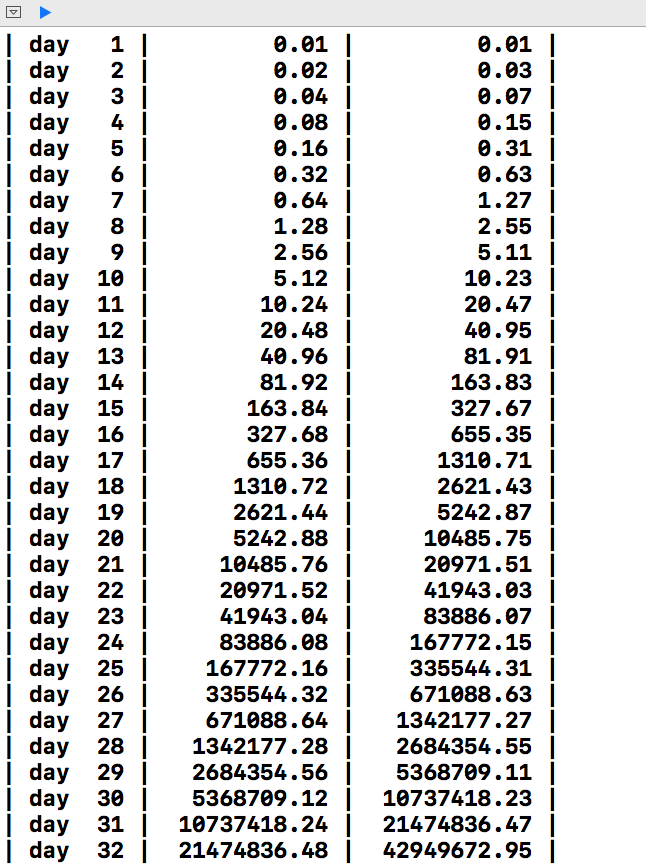
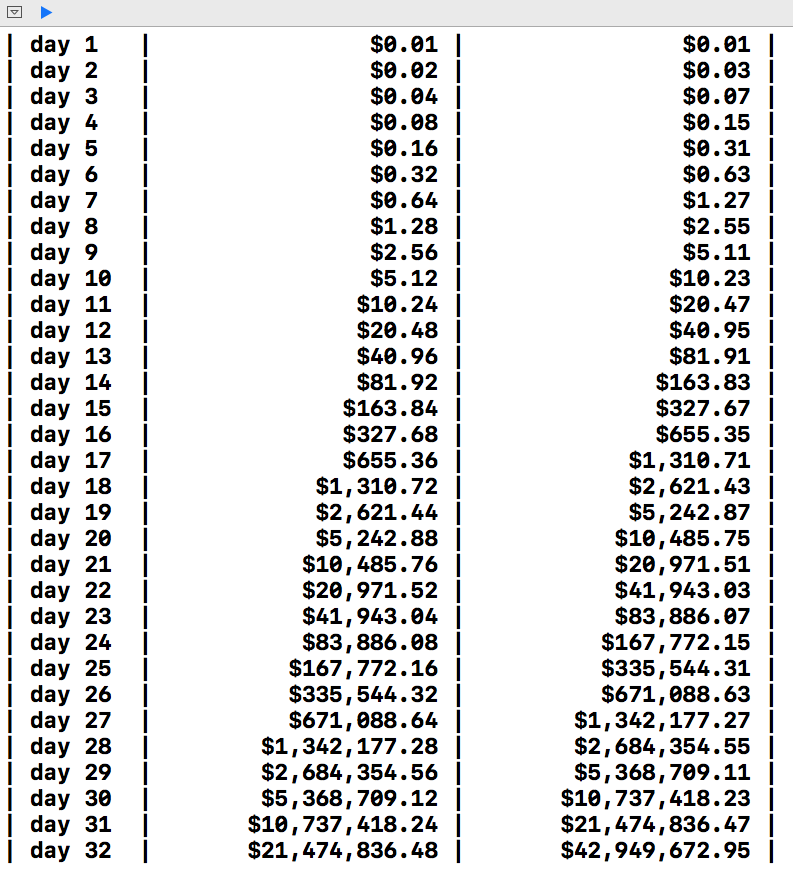
user NumberFormatter for currency

Changed region(s): [[0.2786, 0.0311, 0.9907, 0.9954], [0.0, 0.0, 0.2477, 0.9954]]

diff --git a/CIS55Lab1B.swift b/CIS55Lab1B.swift
@@ -1,13 +1,13 @@
 import UIKit
-let numberOfDays: Int = 32     // number of days
-var dailyPayArray: [Int] = []  // empty array which would keep daily pay
-var totalPayArray: [Int] = []  // empty array which would keep total pay
+let numberOfDays: Int = 32
+var dailyPayArray: [Int] = []; var totalPayArray: [Int] = []
 var total: Int =  0; var nextDaysPay: Int = 1
 for n in (1...numberOfDays){
-    dailyPayArray.append(nextDaysPay)
     total += nextDaysPay
-    totalPayArray.append(total)
-    let outputFormat = NSString(format:"| day %3d | %12.2f | %12.2f |", n, Double(dailyPayArray[n-1])/100.0, Double(totalPayArray[n-1])/100.0)
+    dailyPayArray.append(nextDaysPay); totalPayArray.append(total);
+    let formatter = NumberFormatter()
+    formatter.numberStyle = .currency; formatter.formatWidth = 20
+    let outputFormat = NSString(format:"| day %-3d | %@ | %@ |", n, formatter.string(from: Double(dailyPayArray[n-1])/100.0 as NSNumber)!, formatter.string(from: Double(totalPayArray[n-1])/100.0 as NSNumber)!)
     print("\(outputFormat)")
     nextDaysPay *= 2
 }
